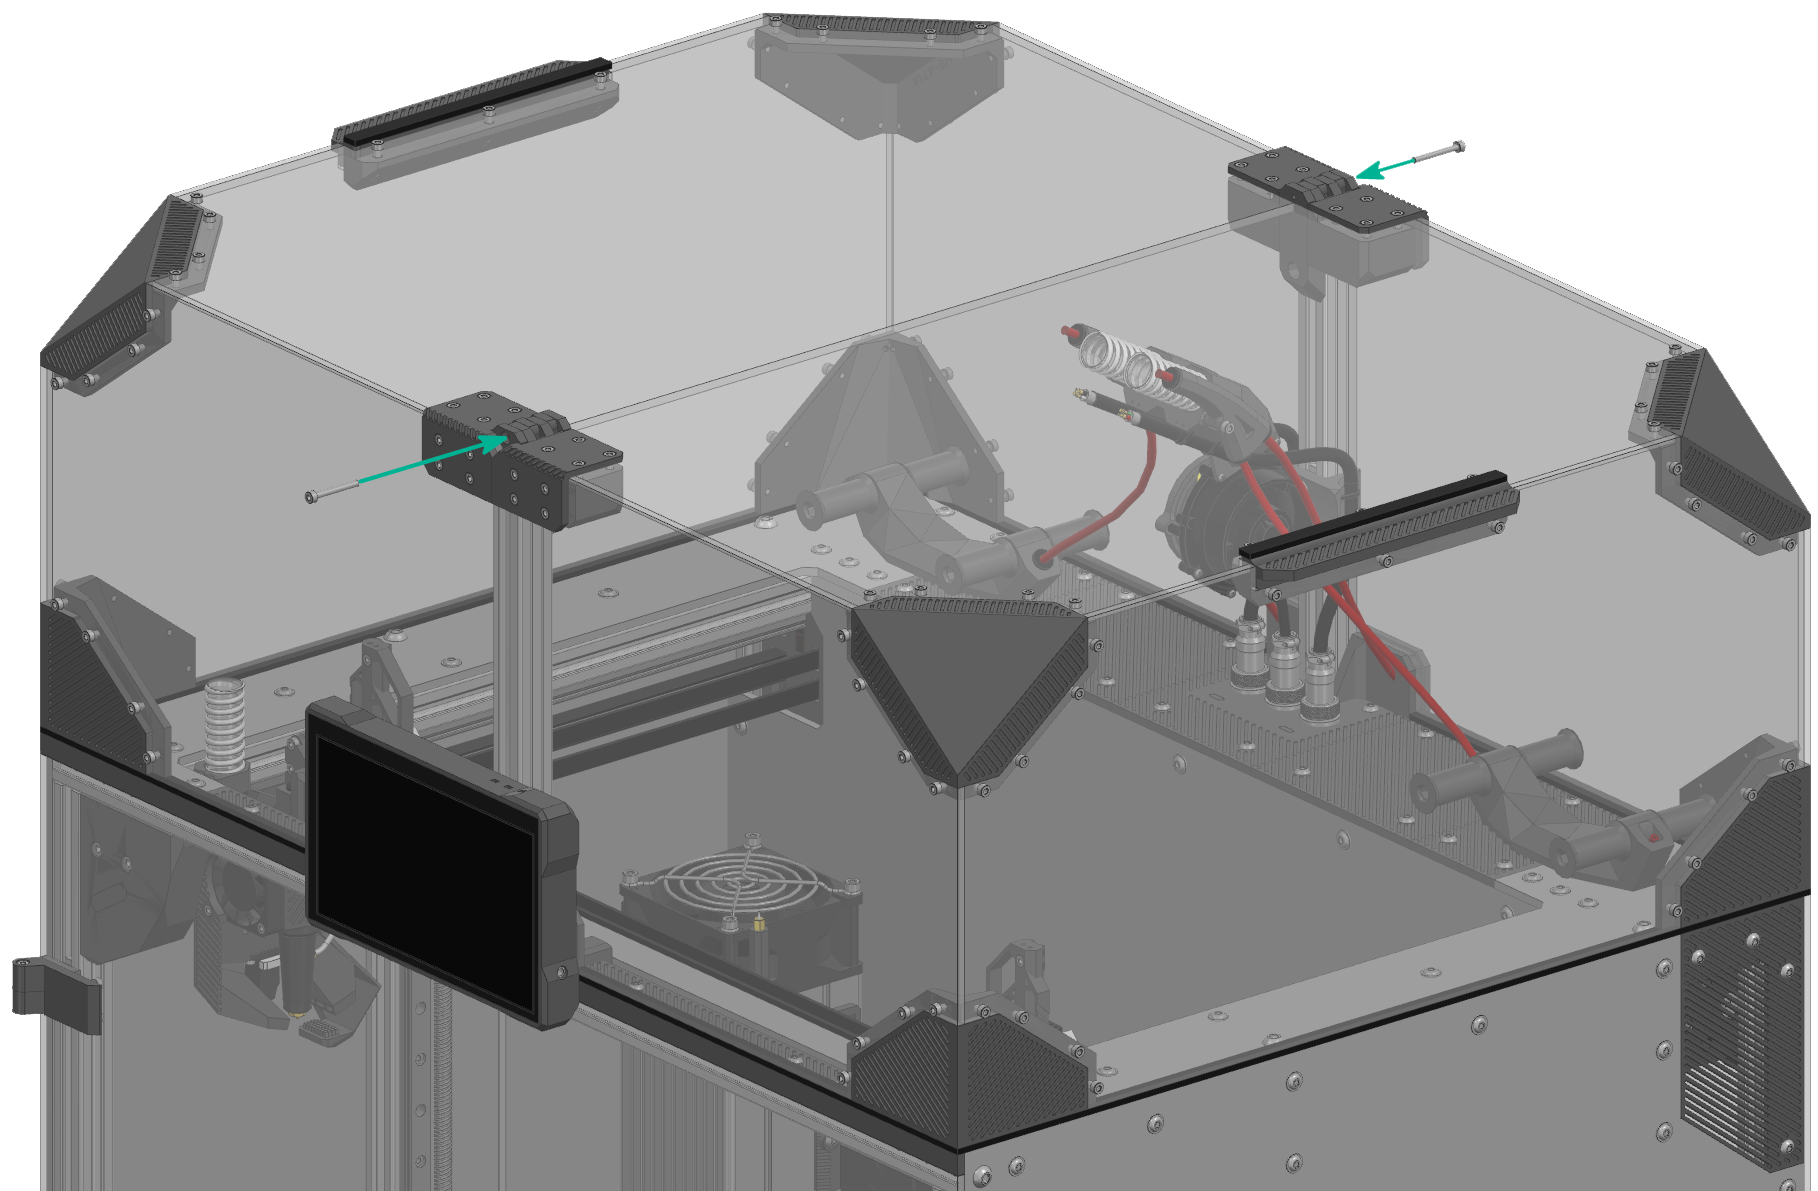
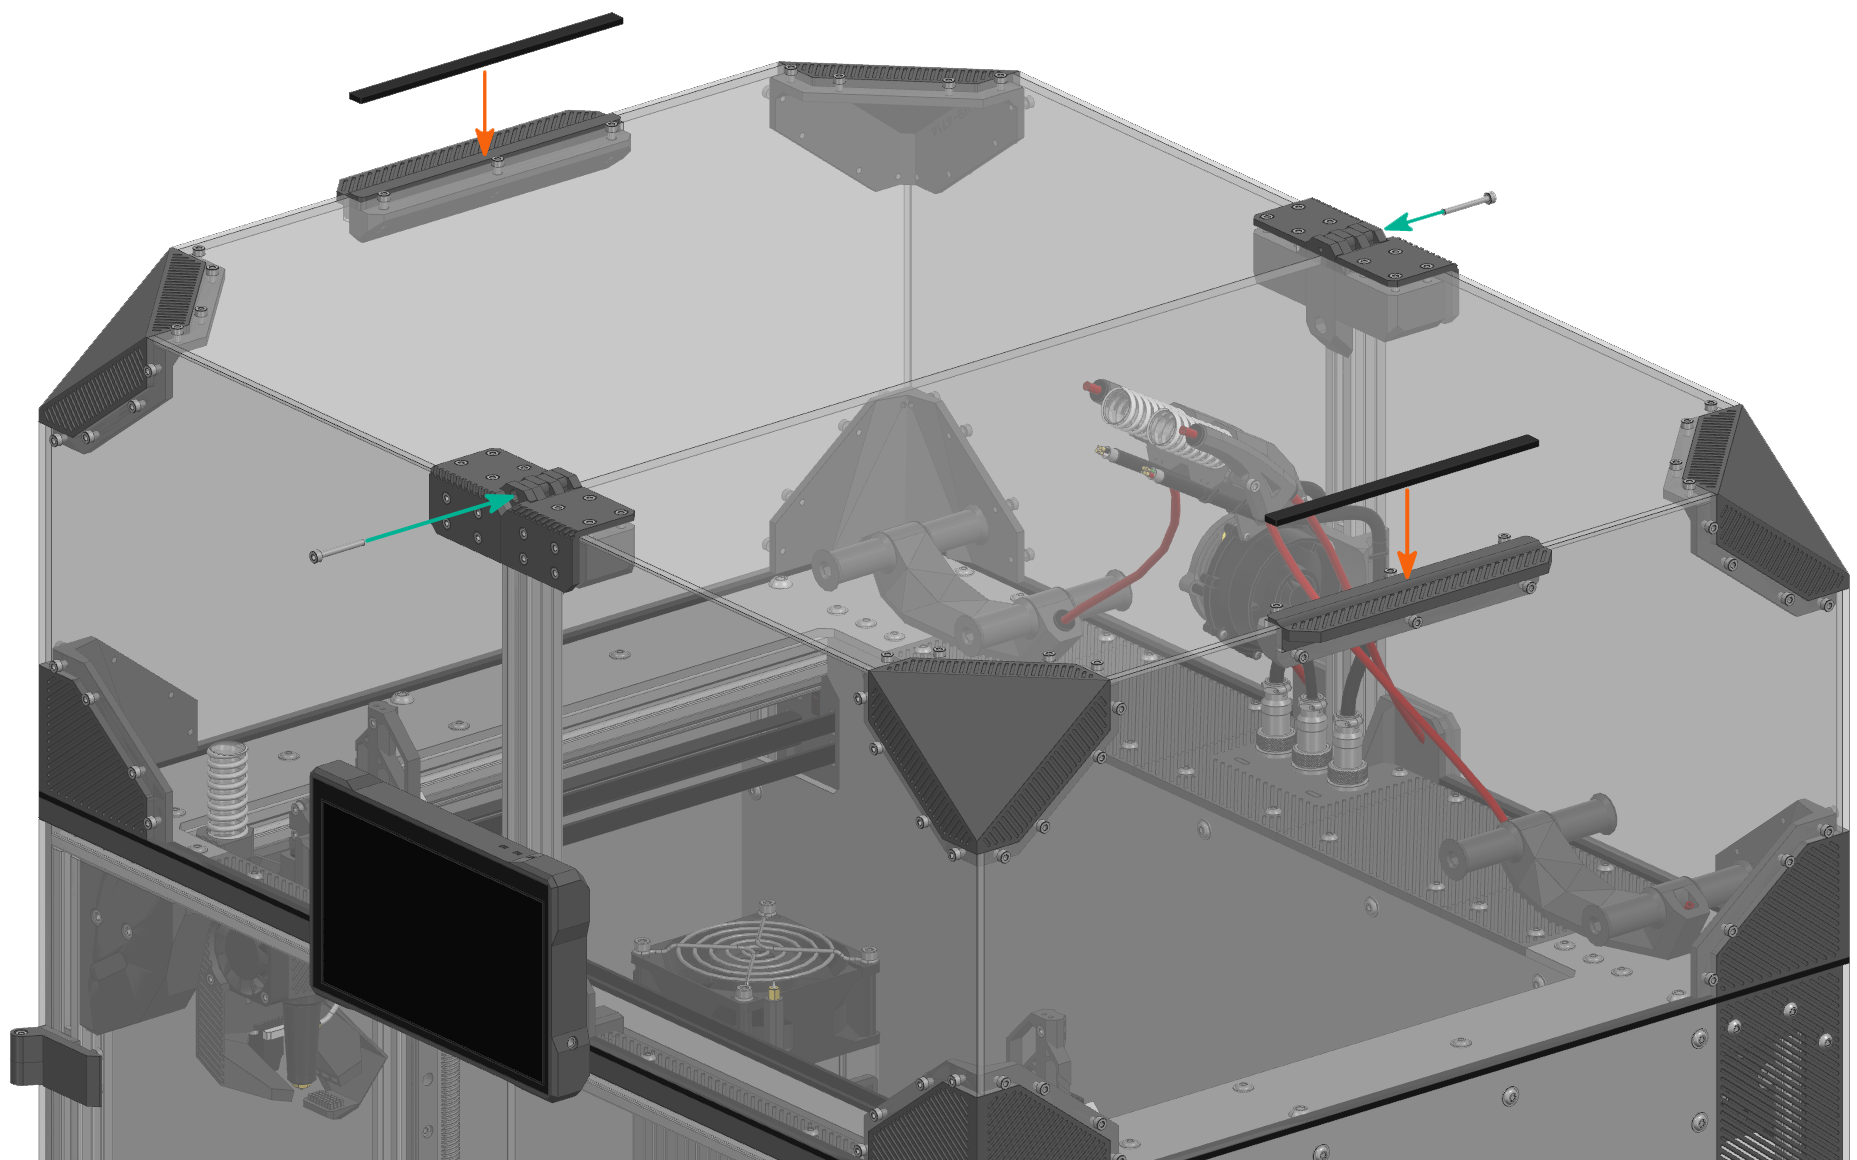
docs(vostok): add gasket-on-handles step to enclosure guide
Add step 2 to the dome assembly (glue gasket onto handles) and update the enclosure_top_install photo.

diff --git a/docs/vostok/manual/mechanics/enclosure.md b/docs/vostok/manual/mechanics/enclosure.md
@@ -218,6 +218,7 @@ description: Пошаговый гайд по установке зашивки
 
 <div class="steps colored" markdown>
 
-1. Установите собранные половинки купола и закрепите их винтами M3x25 с цилиндрической головкой.
+1. Установите собранные половинки купола и закрепите их винтами M3x25 с цилиндрической головкой;
+2. Наклейте уплотнитель на ручки.
 
 </div>
